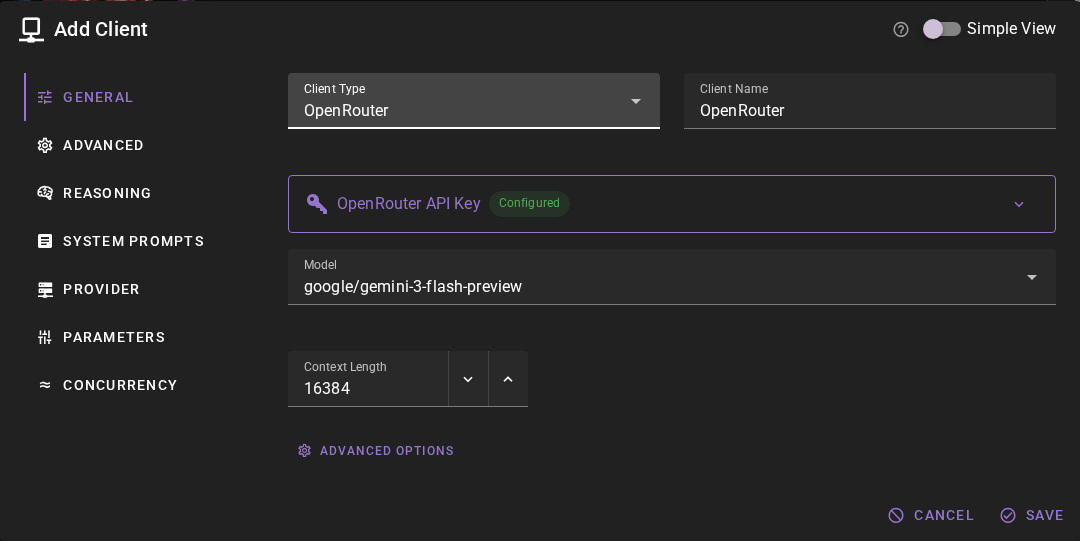
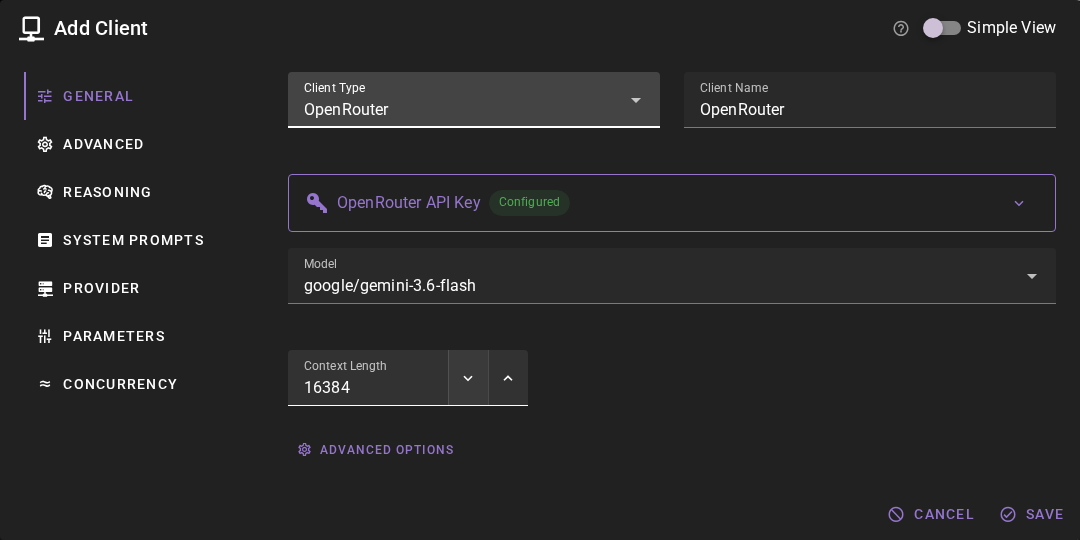
0.39.0 polish pass (#189) (#190)
* 0.39.0 polish pass: compact help-chat alert, quick-load hover pop, unsaved-settings confirmation, openrouter default model (#189)

* address PR #190 review: openrouter reasoning defaults, guard click-path routing, dialog save eligibility + action separation, docs sync (#189)

* review round 2: gate wizard Add Client on loaded client types, fix stale reasoning-default strings (#189)

diff --git a/talemate_frontend/src/components/TalemateApp.vue b/talemate_frontend/src/components/TalemateApp.vue
@@ -68,7 +68,7 @@
       </v-app-bar-nav-icon>
       
       <v-tabs v-model="tab" color="primary">
-        <v-tab v-for="tab in availableTabs" :key="tab" :value="tab.value" @click.stop="tab.click">
+        <v-tab v-for="tab in availableTabs" :key="tab" :value="tab.value" @click.stop="onTabClick(tab)">
           <v-icon class="mr-1">{{ tab.icon() }}</v-icon>
           {{ tab.title() }}
           <span v-if="tab.alert && tab.alert()" class="ml-1 d-inline-flex">
@@ -376,7 +376,8 @@
             @appearance-preview="onAppearancePreview"
             @appearance-preview-clear="onAppearancePreviewClear"
             @page-changed="(page) => appSettingsPage = page"
-            @dirty-changed="(dirty) => appSettingsDirty = dirty" />
+            @dirty-changed="(dirty) => appSettingsDirty = dirty"
+            @save-state-changed="(state) => appSettingsSaveState = state" />
           </v-tabs-window-item>
 
         </v-tabs-window>
@@ -398,6 +399,26 @@
         <v-card-actions>
           <v-spacer></v-spacer>
           <v-btn color="primary" variant="text" @click="worldEditorUnavailable = false">OK</v-btn>
+        </v-card-actions>
+      </v-card>
+    </v-dialog>
+    <v-dialog v-model="unsavedSettingsPrompt" max-width="480" persistent>
+      <v-card>
+        <v-card-title>
+          <v-icon start color="warning">mdi-content-save-alert-outline</v-icon>
+          You have unsaved settings
+        </v-card-title>
+        <v-card-text>
+          You have unsaved changes in Settings. Save them, discard them, or leave them pending and return to Settings later.
+          <p v-if="appSettingsSaveState.externalChange" class="text-warning mt-2 text-caption">
+            The configuration was changed outside this view while you have unsaved edits — saving overwrites it.
+          </p>
+        </v-card-text>
+        <v-card-actions>
+          <v-btn color="delete" variant="text" prepend-icon="mdi-undo" @click="onUnsavedSettingsDiscard">Discard Changes</v-btn>
+          <v-spacer></v-spacer>
+          <v-btn color="muted" variant="text" @click="onUnsavedSettingsIgnore">Ignore</v-btn>
+          <v-btn color="primary" variant="text" prepend-icon="mdi-check-circle-outline" :disabled="!appSettingsSaveState.canSave" @click="onUnsavedSettingsSave">Save</v-btn>
         </v-card-actions>
       </v-card>
     </v-dialog>
@@ -662,6 +683,18 @@ export default {
       // Synced page state between AppSettingsMenu and AppSettings
       appSettingsPage: 'gameplay',
       appSettingsDirty: false,
+      // Whether AppSettings would accept a save right now, and whether the
+      // configuration changed elsewhere while it holds unsaved edits
+      appSettingsSaveState: { canSave: false, externalChange: false },
+      // Unsaved settings guard: tab the user tried to leave for, held while
+      // the confirmation dialog is open
+      unsavedSettingsPrompt: false,
+      unsavedSettingsTarget: null,
+      suppressUnsavedSettingsPrompt: false,
+      revertingTab: false,
+      // The tab the view is actually on — `tab` transiently holds a target
+      // the unsaved settings guard vetoes
+      committedTab: 'home',
       // Count of outdated prompt template overrides
       promptsOutdatedCount: 0,
       // Flag to ensure new-scene navigation only happens once per scene load
@@ -681,6 +714,11 @@ export default {
     },
     tab: {
       handler(newTab, oldTab) {
+        if(this.guardUnsavedSettings(newTab)) {
+          return;
+        }
+        this.committedTab = newTab;
+
         // Save scroll position when leaving main tab
         if(oldTab === 'main' && this.sceneActive) {
           this.mainTabScrollPosition = window.scrollY;
@@ -1597,7 +1635,10 @@ export default {
       }
       this.tab = 'world';
       this.$nextTick(() => {
-        this.$refs.worldStateManager.show(tab, sub1, sub2, sub3);
+        // the unsaved settings guard can veto the switch above, leaving the
+        // world window item unrendered — its commit path replays the tab's
+        // click, only this sub-navigation is dropped
+        this.$refs.worldStateManager?.show(tab, sub1, sub2, sub3);
       });
     },
     onOpenAgentMessages(agent_name) {
@@ -1672,6 +1713,80 @@ export default {
           this.$refs.appSettings.openLegacy(tab, page, item);
         }
       });
+    },
+    onTabClick(tabDef) {
+      // the tab's side effect acts on a view the guard may refuse to switch
+      // to — leaveSettingsTab() replays it once the user commits
+      if(this.settingsNavigationBlocked(tabDef.value)) {
+        return;
+      }
+      tabDef.click();
+    },
+    settingsNavigationBlocked(target) {
+      // leaving settings while edits are pending needs a decision first.
+      // Checked against committedTab, not `tab`: v-tabs updates the model
+      // before the click handler runs, so `tab` may already hold the target
+      return this.committedTab === 'settings'
+        && target !== 'settings'
+        && this.appSettingsDirty
+        && !this.suppressUnsavedSettingsPrompt;
+    },
+    guardUnsavedSettings(newTab) {
+      // Re-entrant call caused by the revert below: the view never left the
+      // settings tab, so no tab change side effect should run
+      if(this.revertingTab) {
+        this.revertingTab = false;
+        return true;
+      }
+      if(!this.settingsNavigationBlocked(newTab)) {
+        return false;
+      }
+      // hold the view on settings and let the user decide what to do with
+      // the edits
+      this.unsavedSettingsTarget = newTab;
+      this.unsavedSettingsPrompt = true;
+      this.revertingTab = true;
+      this.tab = 'settings';
+      return true;
+    },
+    onUnsavedSettingsIgnore() {
+      this.leaveSettingsTab();
+    },
+    onUnsavedSettingsSave() {
+      // fire and forget: the save is a websocket round-trip, the dirty
+      // state clears (and with it the tab badge) when it comes back
+      this.$refs.appSettings.saveConfig();
+      this.leaveSettingsTab();
+    },
+    onUnsavedSettingsDiscard() {
+      this.$refs.appSettings.discard();
+      this.leaveSettingsTab();
+    },
+    leaveSettingsTab() {
+      const target = this.unsavedSettingsTarget;
+      this.unsavedSettingsPrompt = false;
+      this.unsavedSettingsTarget = null;
+      if(!target) {
+        return;
+      }
+      // the target may have disappeared while the prompt was open (a scene
+      // unload removes 'main', 'world', ...) — the availableTabs watcher
+      // won't correct it, it already ran while settings (always available)
+      // was selected
+      const targetTab = this.availableTabs.find(tab => tab.value === target)
+        || this.availableTabs.find(tab => tab.value === 'home');
+      if(!targetTab) {
+        return;
+      }
+      // the edits may still be unsaved (Ignore, or a save whose round-trip
+      // hasn't landed yet) — suppress the guard so completing the navigation
+      // doesn't re-open the dialog
+      this.suppressUnsavedSettingsPrompt = true;
+      this.tab = targetTab.value;
+      this.$nextTick(() => { this.suppressUnsavedSettingsPrompt = false; });
+      // take the same path a real click does — the side effect was skipped
+      // when the guard vetoed the navigation
+      targetTab.click();
     },
     onAppSettingsNavigate({ page, anchor }) {
       if (this.$refs.appSettings) {

diff --git a/talemate_frontend/src/components/AppSettings.vue b/talemate_frontend/src/components/AppSettings.vue
@@ -3,7 +3,7 @@
         <v-toolbar rounded="md" density="compact" color="grey-darken-4" class="pl-2 mb-1 app-settings-toolbar">
             <v-icon class="mr-2" color="primary">{{ currentPage?.icon || 'mdi-cog' }}</v-icon>
             <span class="text-subtitle-2 mr-4">{{ currentPage?.group }} <span class="text-muted">/</span> {{ currentPage?.title }}</span>
-            <v-btn color="primary" variant="text" prepend-icon="mdi-check-circle-outline" :disabled="!dirty || embeddingsBusy" @click="saveConfig">Save</v-btn>
+            <v-btn color="primary" variant="text" prepend-icon="mdi-check-circle-outline" :disabled="!canSave" @click="saveConfig">Save</v-btn>
             <v-btn v-if="dirty" color="muted" variant="text" prepend-icon="mdi-undo" @click="discard">Discard</v-btn>
             <span v-if="dirty" class="text-muted text-caption mr-2">Unsaved changes.</span>
             <v-chip v-if="externalChange" size="small" label color="warning" variant="text" prepend-icon="mdi-alert-circle-outline" class="mr-2">
@@ -128,6 +128,7 @@ export default {
         'appearance-preview-clear',
         'page-changed',
         'dirty-changed',
+        'save-state-changed',
     ],
     data() {
         return {
@@ -156,6 +157,14 @@ export default {
             // applies an embedding set — only block saving from that page
             return this.busy && this.page === 'presets-embeddings';
         },
+        canSave() {
+            return this.dirty && !this.embeddingsBusy;
+        },
+        saveState() {
+            // what a save from outside this component (the unsaved changes
+            // prompt) needs to know before offering one
+            return { canSave: this.canSave, externalChange: this.externalChange };
+        },
     },
     watch: {
         page(newPage) {
@@ -163,6 +172,9 @@ export default {
         },
         dirty(isDirty) {
             this.$emit('dirty-changed', isDirty);
+        },
+        saveState(state) {
+            this.$emit('save-state-changed', state);
         },
         visible(isVisible) {
             if (!isVisible) {
@@ -354,6 +366,11 @@ export default {
         },
 
         saveConfig() {
+            if (!this.canSave) {
+                // callers outside this component (the unsaved changes prompt)
+                // can't see what disables the toolbar's Save button
+                return;
+            }
             this.mergeSubcomponentConfigs();
             this.saving = true;
             this.sendRequest({

diff --git a/talemate_frontend/src/components/OnboardingWizard.vue b/talemate_frontend/src/components/OnboardingWizard.vue
@@ -111,7 +111,7 @@
                     <v-icon icon="mdi-brain" size="small" class="mr-1" color="primary"></v-icon>
                   </template>
                   <div class="text-body-2">
-                    Google's gemini 3 model will be selected by default. Since it's a reasoning model, reasoning will be enabled automatically. If you change to a non-reasoning model in the next  setup step (or at a later point), you should turn reasoning off in the client settings.
+                    Google's Gemini 3.6 Flash model will be selected by default. Since it's a reasoning model, reasoning will be enabled automatically. If you change to a non-reasoning model in the next  setup step (or at a later point), you should turn reasoning off in the client settings.
                   </div>
                 </v-alert>
               </v-col>
@@ -134,7 +134,7 @@
               </v-col>
             </v-row>
             
-            <v-btn color="primary" variant="tonal" @click="openClientModal" prepend-icon="mdi-plus">
+            <v-btn color="primary" variant="tonal" :disabled="clientTypesLoading || !clientPresetOptions.length" @click="openClientModal" prepend-icon="mdi-plus">
               Add Client
             </v-btn>
             
@@ -750,12 +750,6 @@ export default {
       this.ensureSelectedPreset();
       const preset = this.buildClientPreset(this.selectedClientPreset);
       preset._simpleMode = true;
-      
-      // Default reason_enabled to true for OpenRouter
-      if (this.selectedClientPreset === 'openrouter') {
-        preset.reason_enabled = true;
-      }
-      
       this.$emit('open-client-modal', preset);
     },
     nextOrFinish() {

diff --git a/talemate_frontend/src/components/IntroRecentScenes.vue b/talemate_frontend/src/components/IntroRecentScenes.vue
@@ -228,6 +228,17 @@ export default {
     gap: 12px;
 }
 
+.tile {
+    position: relative;
+}
+
+/* z-index sits on the tile, not the card: it isn't transitionable, so keeping it
+   tied to the card's own :hover would drop it the instant the pointer leaves,
+   letting a later sibling paint over the card while it scales back down */
+.tile:hover {
+    z-index: 1;
+}
+
 .tile :deep(.v-card-title) {
     font-size: 0.9rem;
     line-height: 1.3;
@@ -244,6 +255,15 @@ export default {
     padding-right: 0;
     padding-top: 4px;
     padding-bottom: 0;
+}
+
+.tile :deep(.v-card) {
+    transition: transform 0.2s ease;
+}
+
+/* scale instead of size changes so neighbouring tiles don't shift */
+.tile :deep(.v-card:not(.v-card--disabled):hover) {
+    transform: scale(1.04);
 }
 
 .v-card:disabled {

diff --git a/talemate_frontend/src/components/HelpChat.vue b/talemate_frontend/src/components/HelpChat.vue
@@ -80,7 +80,7 @@
 
     <v-divider class="mb-2"></v-divider>
 
-    <v-alert v-if="!helpAvailable" type="warning" variant="tonal" density="compact" class="ma-2">
+    <v-alert v-if="!helpAvailable" type="warning" variant="tonal" density="compact" class="ma-2 help-unavailable-alert">
         {{ helpUnavailableReason }}
     </v-alert>
 
@@ -446,6 +446,11 @@ export default {
     display: flex;
     flex-direction: column;
     height: 100%;
+}
+/* keep the alert at its natural height - the flex column root would otherwise
+   stretch it to fill the space above the chat card */
+.help-unavailable-alert {
+    flex: 0 0 auto;
 }
 .chat-card {
     display: flex;

diff --git a/src/talemate/client/openrouter.py b/src/talemate/client/openrouter.py
@@ -52,7 +52,7 @@ AVAILABLE_MODELS = []
 # Available providers will be populated dynamically from OpenRouter API once a valid API key is set
 AVAILABLE_PROVIDERS = []
 
-DEFAULT_MODEL = "google/gemini-3-flash-preview"
+DEFAULT_MODEL = "google/gemini-3.6-flash"
 
 # Sampler parameters whose inclusion in the request payload is user-toggleable.
 # Some OpenRouter providers hard-error when these are sent for certain models
@@ -210,6 +210,11 @@ async_signals.get("config.saved").connect(on_config_saved)
 class Defaults(ToggleableParametersConfig, CommonDefaults, pydantic.BaseModel):
     max_token_length: int = 16384
     model: str = DEFAULT_MODEL
+    # Reasoning on by default: with it off the client is coercible, and several
+    # providers (Google, Anthropic) reject the coercion prefill outright since
+    # the request then ends on a model turn.
+    reason_enabled: bool = True
+    reason_tokens: int = 2048
     provider_only: list[str] = pydantic.Field(default_factory=list)
     provider_ignore: list[str] = pydantic.Field(default_factory=list)
 

diff --git a/docs/user-guide/app-settings/game.md b/docs/user-guide/app-settings/game.md
@@ -2,7 +2,7 @@
 
 Application settings open in the main view via the **:material-cog: Settings** tab in the top navigation (or the cogwheel icon on the right side of the top bar). Navigation lives in the left sidebar, grouped by topic, with a **search field** at the top that finds any setting by name and jumps straight to it.
 
-Changes are collected as you edit — an **Unsaved changes** indicator with **Save** and **Discard** actions appears in the toolbar whenever your edits differ from the stored configuration. Nothing is applied until you save. Unsaved edits survive switching to another main tab and back. While you have unsaved changes, the **Settings** tab in the top navigation also shows a warning badge, so the state stays visible even after you switch to another tab.
+Changes are collected as you edit — an **Unsaved changes** indicator with **Save** and **Discard** actions appears in the toolbar whenever your edits differ from the stored configuration. Nothing is applied until you save. Switching to another main tab while edits are pending opens a **You have unsaved settings** prompt with three actions: **Ignore** leaves the tab with your edits still pending, **Save** saves them and then leaves, and **Discard Changes** reverts them and then leaves. Moving between pages inside Settings never prompts. Ignored edits survive switching to another main tab and back, and while they are pending the **Settings** tab in the top navigation shows a warning badge, so the state stays visible even after you switch to another tab.
 
 If the configuration is changed elsewhere while you have unsaved edits — from another window, or by the [help agent](/talemate/user-guide/agents/help/) — a **Changed outside this view — saving overwrites** warning appears in the toolbar instead of your edits being silently overwritten (or silently overwriting the other change). **Discard** loads the latest stored configuration; **Save** overwrites the outside change with your edits.
 

diff --git a/docs/getting-started/setup-wizard.md b/docs/getting-started/setup-wizard.md
@@ -40,7 +40,7 @@ Select your preferred client from the dropdown and click **Add Client** to open 
 Once you complete the client configuration, the wizard will automatically advance to the next step.
 
 !!! info "Reasoning Models"
-    If you are using a reasoning model (like DeepSeek R1 or GLM), you will need to enable reasoning in the client settings after setup. For OpenRouter users, the default model selected during the wizard (Gemini 3 Flash) has reasoning enabled automatically, but if you switch to a different reasoning-capable model, you'll need to enable it manually in the client settings.
+    If you are using a reasoning model (like DeepSeek R1 or GLM), you will need to enable reasoning in the client settings after setup. For OpenRouter users, new clients have reasoning enabled by default with a budget of 2048 reasoning tokens, so the default model selected during the wizard (Gemini 3.6 Flash) and other reasoning models work out of the box. If you switch to a model that does not reason, you can turn reasoning off in the client settings.
 
 ## Step 3: Configure Long-term Memory
 
